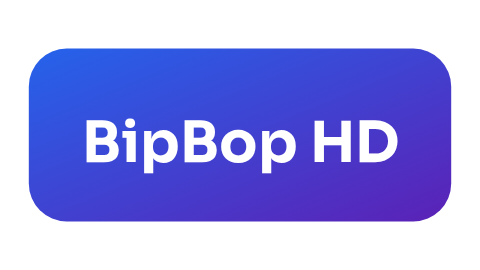
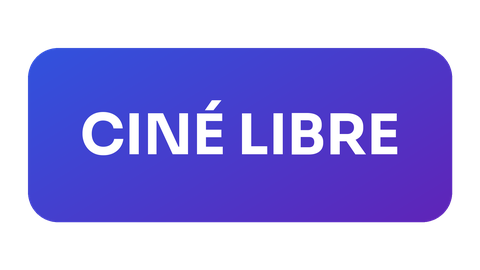
Xbox : démo sans flux Apple, crédits et licences ; noms d'éléments de l'intro
- Chaînes de démo : mire en direct (Unified Streaming), films libres de la Blender Foundation
- Réglages › À propos : rappel « lecteur sans contenu », crédits (Blender CC BY 3.0, polices OFL, Win2D)
- Intro : éléments renommés (conflit avec la méthode Play)

Claude-Session: https://claude.ai/code/session_01LAhiqfQMijqzMwYZpjHC7C

diff --git a/Views/SettingsPage.xaml b/Views/SettingsPage.xaml
@@ -126,11 +126,26 @@
             <!-- À propos -->
             <TextBlock Text="À PROPOS" Style="{StaticResource EyebrowText}" Margin="0,24,0,0" />
             <Border Style="{StaticResource Card}">
-                <StackPanel Orientation="Horizontal">
-                    <Image Source="ms-appx:///Assets/BrandMark.png" Width="40" Height="40" />
-                    <StackPanel Margin="14,0,0,0" VerticalAlignment="Center">
-                        <TextBlock x:Name="VersionText" Style="{StaticResource SettingTitle}" />
-                        <TextBlock Style="{StaticResource SettingText}" Text="Tes identifiants restent chiffrés sur cette console." />
+                <StackPanel>
+                    <StackPanel Orientation="Horizontal">
+                        <Image Source="ms-appx:///Assets/BrandMark.png" Width="40" Height="40" />
+                        <StackPanel Margin="14,0,0,0" VerticalAlignment="Center">
+                            <TextBlock x:Name="VersionText" Style="{StaticResource SettingTitle}" />
+                            <TextBlock Style="{StaticResource SettingText}" Text="Tes identifiants restent chiffrés sur cette console." />
+                        </StackPanel>
+                    </StackPanel>
+                    <TextBlock Style="{StaticResource SettingText}" Margin="0,12,0,0"
+                               Text="FluxTV Player est un lecteur : il ne fournit aucune chaîne ni aucun contenu. Il lit uniquement les sources que tu ajoutes." />
+                    <Button x:Name="CreditsButton" Style="{StaticResource ChipButton}" Margin="0,12,0,0" Click="OnCredits" GotFocus="OnBottomFocus">
+                        <TextBlock x:Name="CreditsLabel" Text="Crédits et licences" />
+                    </Button>
+                    <StackPanel x:Name="Credits" Visibility="Collapsed" Margin="0,8,0,0">
+                        <TextBlock Style="{StaticResource SettingText}"
+                                   Text="Films de démonstration : Big Buck Bunny (2008) et Tears of Steel (2012), © Blender Foundation, blender.org, sous licence Creative Commons Attribution 3.0." />
+                        <TextBlock Style="{StaticResource SettingText}"
+                                   Text="Mire en direct : flux de démonstration public d'Unified Streaming. Flux de test hébergés par Mux et Unified Streaming." />
+                        <TextBlock Style="{StaticResource SettingText}"
+                                   Text="Polices Sora et Manrope : SIL Open Font License 1.1. Animation de lancement dessinée avec Win2D (licence MIT)." />
                     </StackPanel>
                 </StackPanel>
             </Border>

diff --git a/Views/IntroView.xaml b/Views/IntroView.xaml
@@ -21,7 +21,7 @@
 
         <canvas:CanvasAnimatedControl x:Name="Fx" ClearColor="#00000000" IsHitTestVisible="False" />
 
-        <StackPanel x:Name="Core" HorizontalAlignment="Center" VerticalAlignment="Center" RenderTransformOrigin="0.5,0.3"
+        <StackPanel x:Name="SplashCore" HorizontalAlignment="Center" VerticalAlignment="Center" RenderTransformOrigin="0.5,0.3"
                     IsHitTestVisible="False">
             <StackPanel.RenderTransform>
                 <CompositeTransform x:Name="CoreZoom" />
@@ -67,7 +67,7 @@
                                         </LinearGradientBrush>
                                     </Rectangle.Fill>
                                 </Rectangle>
-                                <Path x:Name="Play" Fill="White"
+                                <Path x:Name="PlayGlyph" Fill="White"
                                       Data="M11,15.2C11,13.6 12.7,12.7 14,13.5L26.6,22.2C27.7,23 27.7,24.9 26.6,25.7L14,34.5C12.7,35.3 11,34.4 11,32.8Z">
                                     <Path.RenderTransform>
                                         <CompositeTransform x:Name="PlayPop" CenterX="19" CenterY="24" ScaleX="0" ScaleY="0" Rotation="-40" />
@@ -99,7 +99,7 @@
             <!-- « FluxTV » : lettres créées dans le code -->
             <StackPanel x:Name="Word" Orientation="Horizontal" HorizontalAlignment="Center" Margin="0,22,0,0" />
 
-            <TextBlock x:Name="Tag" Text="LECTEUR IPTV" HorizontalAlignment="Center" Margin="0,8,0,0" Opacity="0"
+            <TextBlock x:Name="Tagline" Text="LECTEUR IPTV" HorizontalAlignment="Center" Margin="0,8,0,0" Opacity="0"
                        FontFamily="{StaticResource FontBold}" FontWeight="Bold" FontSize="12" CharacterSpacing="320"
                        Foreground="{StaticResource AccentBrightBrush}" IsTextScaleFactorEnabled="False" RenderTransformOrigin="0.5,0.5">
                 <TextBlock.RenderTransform>

diff --git a/Core/Demo.cs b/Core/Demo.cs
@@ -5,8 +5,8 @@ using System.Linq;
 namespace FluxTV.Core
 {
     /// <summary>
-    /// Contenu de démonstration : flux de test publics et films libres de droits (Blender Foundation,
-    /// licence Creative Commons BY). Il permet d'essayer FluxTV sans abonnement.
+    /// Contenu de démonstration : mire de test publique (Unified Streaming) et films libres de droits
+    /// (Blender Foundation, licence Creative Commons BY 3.0). Il permet d'essayer FluxTV sans abonnement.
     /// Les visuels « ms-appx:/// » sont fournis avec l'app.
     /// </summary>
     public static class Demo
@@ -19,12 +19,12 @@ namespace FluxTV.Core
 
         public static readonly List<LiveChannel> Channels = new List<LiveChannel>
         {
-            new LiveChannel("demo:live1", null, "Direct de test", Img + "DemoLive1.png", LiveCategory.Id, "demo.live1", 1,
-                url: "https://cph-p2p-msl.akamaized.net/hls/live/2000341/test/master.m3u8"),
-            new LiveChannel("demo:live2", null, "Mire Apple", Img + "DemoLive2.png", LiveCategory.Id, "demo.live2", 2,
-                url: "https://devstreaming-cdn.apple.com/videos/streaming/examples/bipbop_16x9/bipbop_16x9_variant.m3u8"),
-            new LiveChannel("demo:live3", null, "Mire Apple · multi-débit", Img + "DemoLive3.png", LiveCategory.Id, "demo.live3", 3,
-                url: "https://devstreaming-cdn.apple.com/videos/streaming/examples/img_bipbop_adv_example_fmp4/master.m3u8"),
+            new LiveChannel("demo:live1", null, "Mire en direct", Img + "DemoLive1.png", LiveCategory.Id, "demo.live1", 1,
+                url: "https://demo.unified-streaming.com/k8s/live/stable/live.isml/.m3u8"),
+            new LiveChannel("demo:live2", null, "Ciné libre", Img + "DemoLive2.png", LiveCategory.Id, "demo.live2", 2,
+                url: "https://demo.unified-streaming.com/k8s/features/stable/video/tears-of-steel/tears-of-steel.ism/.m3u8"),
+            new LiveChannel("demo:live3", null, "Animation libre", Img + "DemoLive3.png", LiveCategory.Id, "demo.live3", 3,
+                url: "https://test-streams.mux.dev/x36xhzz/x36xhzz.m3u8"),
         };
 
         public static readonly List<Movie> Movies = new List<Movie>
@@ -77,9 +77,9 @@ namespace FluxTV.Core
 
         static readonly Dictionary<string, string[]> Titles = new Dictionary<string, string[]>
         {
-            ["demo:live1"] = new[] { "Direct de test", "Flux continu", "Mesure de latence" },
-            ["demo:live2"] = new[] { "Mire BipBop", "Test d'image", "Test du son" },
-            ["demo:live3"] = new[] { "Mire haute définition", "Test HDR", "Test de débit" },
+            ["demo:live1"] = new[] { "Mire de test", "Horloge en direct", "Signal de référence" },
+            ["demo:live2"] = new[] { "Tears of Steel", "Court métrage libre", "Science-fiction" },
+            ["demo:live3"] = new[] { "Big Buck Bunny", "Court métrage libre", "Animation" },
         };
 
         /// <summary>Guide des chaînes de démonstration (créneaux d'une heure autour de maintenant).</summary>

diff --git a/Views/IntroView.xaml.cs b/Views/IntroView.xaml.cs
@@ -149,7 +149,7 @@ namespace FluxTV.Views
                 Add(intro, cell.Projection, "RotationX", begin, K(0, 80), K(900, 0, Spring()));
             }
             // Slogan qui se resserre
-            Add(intro, Tag, "Opacity", 1520, K(0, 0), K(1100, 1, EaseOut(4)));
+            Add(intro, Tagline, "Opacity", 1520, K(0, 0), K(1100, 1, EaseOut(4)));
             Add(intro, TagSpread, "ScaleX", 1520, K(0, 1.7), K(1100, 1, EaseOut(4)));
             // Barre de chargement, état, signature
             Add(intro, Bar, "Opacity", 1670, K(0, 0), K(500, 1));
@@ -185,7 +185,7 @@ namespace FluxTV.Views
             Add(outro, BarScale, "ScaleX", 0, K(0, 0.85), K(350, 1, EaseOut(2)));
             Add(outro, CoreZoom, "ScaleX", 300, K(0, 1), K(750, 5, EaseIn(3)));
             Add(outro, CoreZoom, "ScaleY", 300, K(0, 1), K(750, 5, EaseIn(3)));
-            Add(outro, Core, "Opacity", 300, K(0, 1), K(750, 0, EaseIn(2)));
+            Add(outro, SplashCore, "Opacity", 300, K(0, 1), K(750, 0, EaseIn(2)));
             Add(outro, Credit, "Opacity", 300, K(0, 1), K(300, 0));
             Add(outro, Rays, "Opacity", 300, K(0, 1), K(300, 0));
             Add(outro, Flash, "Opacity", 680, K(0, 0), K(160, 0.85), K(900, 0, EaseOut(2)));

diff --git a/Views/SettingsPage.xaml.cs b/Views/SettingsPage.xaml.cs
@@ -41,6 +41,23 @@ namespace FluxTV.Views
 
         void OnTopFocus(object sender, RoutedEventArgs e) => Scroller.ChangeView(null, 0, null);
 
+        void OnBottomFocus(object sender, RoutedEventArgs e) => Scroller.ChangeView(null, Scroller.ScrollableHeight, null);
+
+        void OnCredits(object sender, RoutedEventArgs e)
+        {
+            var show = Credits.Visibility != Visibility.Visible;
+            Credits.Visibility = show ? Visibility.Visible : Visibility.Collapsed;
+            CreditsLabel.Text = show ? "Masquer les crédits" : "Crédits et licences";
+            Tv.Later(() => Scroller.ChangeView(null, Scroller.ScrollableHeight, null));
+        }
+
+        /// <summary>Captures automatiques : crédits affichés.</summary>
+        public void ShowCreditsForTest()
+        {
+            CreditsButton.Focus(FocusState.Keyboard);
+            OnCredits(null, null);
+        }
+
         void Fill()
         {
             loading = true;

diff --git a/Views/ShellPage.xaml.cs b/Views/ShellPage.xaml.cs
@@ -440,9 +440,14 @@ namespace FluxTV.Views
                 case "seriesdetail":
                     OpenSeries(Demo.SeriesList[0], Demo.SeriesCategory.Name);
                     break;
+                case "credits":
+                    Navigate("settings");
+                    await Task.Delay(800);
+                    (ContentFrame.Content as SettingsPage)?.ShowCreditsForTest();
+                    break;
                 case "play-live":
                 case "play-channels":
-                    app.Play(Demo.Channels[1], Demo.Channels);
+                    app.Play(Demo.Channels[screen == "play-live" ? 0 : 1], Demo.Channels);
                     await Task.Delay(6000);
                     player?.ShowForTest(screen == "play-channels" ? "channels" : "controls");
                     break;

diff --git a/Tests/Program.cs b/Tests/Program.cs
@@ -462,6 +462,7 @@ namespace FluxTV.Tests
             var repo = new Repository(Source.Demo, Path.GetTempPath());
             var live = await repo.LiveAsync();
             Assert.Equal(3, live.Channels.Count);
+            Assert.True(live.Channels.TrueForAll(c => !c.Url.Contains("apple.com")), "démo sans flux Apple");
             var cats = await repo.VodCategoriesAsync();
             var movies = await repo.MoviesAsync(cats[0].Id);
             Assert.Equal(2, movies.Count);
